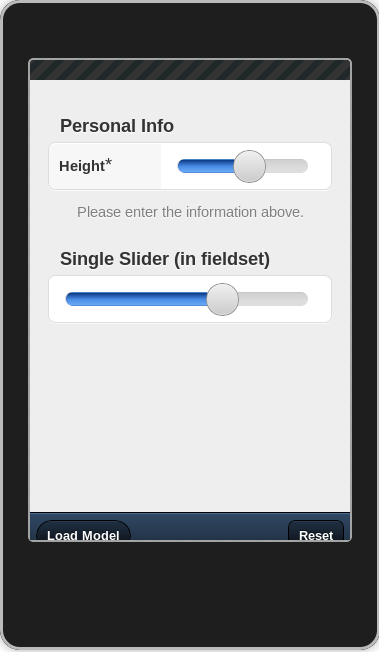
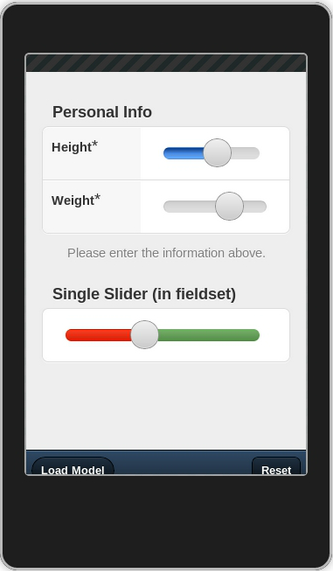
overhauled slider fill which now works like  a slide plugin, modified css, included working demo

diff --git a/index.js b/index.js
@@ -1,88 +1,67 @@
-/**
- * Form slider over ride to implement background fill feature.
- */
-Ext.override(Ext.form.Slider,{
-    additionalWidth : 8,
-    initComponent: function() {
-	this.tabIndex = -1;
-	if (this.increment == 0) {
-	    this.increment = 1;
-	}
-	this.increment = Math.abs(this.increment);
-	//TODO: This will be removed once multi-thumb support is in place - at that point a 'values' config will be accepted
-	//to create the multiple thumbs
-	this.values = [this.value];
+
+Ext.plugins.SliderFill = Ext.extend(Ext.util.Observable, {
+    init: function(slider) {
+	var me = this;
+	this.slider = slider;
+	Ext.DomHelper.append('cssdiv',{tag: 'style', id: 'dynamic-'+this.slider.id});
 	
-	Ext.form.Slider.superclass.initComponent.apply(this, arguments);
-	if (this.thumbs == undefined) {
-	    var thumbs = [],
-		values = this.values,
-		length = values.length,
-		i,
-		Thumb = this.getThumbClass();
-	    for (i = 0; i < length; i++) {
-		thumbs[thumbs.length] = new Thumb({
-		    value: values[i],
-		    slider: this,
-		    listeners: {
-			scope  : this,
-			drag   : this.onDrag,
-			dragend: this.onThumbDragEnd
-		    }
-		});
-	    }
-	    this.thumbs = thumbs;
-	}
-	Ext.DomHelper.append('cssdiv',{tag: 'style', id: 'dynamic-'+this.id});
-    },
-    /**
-    * @private
-    * Fires drag events so the user can interact.
-    */
-    onDrag: function(draggable){
-       
-       var value = this.getThumbValue(draggable);
-       this.fillSlider(value);
-       this.fireEvent('drag', this, draggable.thumb, this.constrain(value));
+	this.mon(slider, 'afterrender',function(slider){
+	    this.onSliderRender(slider);
+	}, this);
+	
+	this.mon(slider, 'change',function(slider,thumb,newvalue,oldvalue){
+	    this.fillSlider(newvalue);
+	}, this);
+	
+	this.mon(slider, 'drag',function(slider,thumb,newvalue){
+	    this.fillSlider(newvalue);
+	}, this);
+	
+	this.mon(slider,'orientationchange',function(slider){
+	    Ext.defer(function(){
+			me.fillSlider(slider.getValue())
+	    },100);
+	},this);
+	
+	
+	
     },
     fillSlider:function(value){
-	if (this.disabled) {
+	if (this.slider.disabled) {
 	    return false;
 	}
-	var newpixel = parseFloat(this.getPixelValue(this.constrain(value), this.getThumb())) + this.additionalWidth;
-	Ext.get('dynamic-'+this.id).dom.innerText = '#'+this.id+' .x-input-slider::after{ width: '+Math.round(newpixel)+'px;}';
+	var newpixel = parseFloat(this.getSlidePixelValue(this.slider.constrain(value), this.slider.getThumb()));
+	Ext.get('dynamic-'+this.slider.id).dom.innerText = '#'+this.slider.id+' .x-input-slider::after{ width: '+Math.round(newpixel)+'px;}';
+	this.updateSliderSize(this.slider);
+	
     },
-    setValue: function(value, animationDuration, moveThumb) {
-	if (typeof moveThumb == 'undefined') {
-	    moveThumb = true;
-	}
-
-	moveThumb = !!moveThumb;
-
-	//TODO: this should accept a second argument referencing which thumb to move
-	var thumb    = this.getThumb(),
-	    oldValue = thumb.getValue(),
-	    newValue = this.constrain(value);
-	if (this.fireEvent('beforechange', this, thumb, newValue, oldValue) !== false) {
-	    if (moveThumb) {
-		this.moveThumb(thumb, this.getPixelValue(newValue, thumb), animationDuration);
-	    }
-	    thumb.setValue(newValue);
-	    this.doComponentLayout();
-	    this.fireEvent('change', this, thumb, newValue, oldValue);
-	    this.fillSlider(value);
-	}
-	return this;
-    },
-    getPixelValue: function(value, thumb) {
-	var trackWidth = thumb.dragObj.offsetBoundary.right + this.additionalWidth,
-	    range = this.maxValue - this.minValue,
+    getSlidePixelValue: function(value, thumb) {
+	var slider = this.slider;
+	var trackWidth = thumb.dragObj.offsetBoundary.right ,
+	    range = slider.maxValue - slider.minValue,
 	    ratio;
-	this.trackWidth = (trackWidth > 0) ? trackWidth : this.trackWidth;
-	ratio = this.trackWidth / range;
-	return (ratio * (value - this.minValue));
+	   
+	slider.trackWidth = (trackWidth > 0) ? trackWidth : slider.trackWidth;
+	ratio = slider.trackWidth / range;
+	return (ratio * (value - slider.minValue));
+    },
+    onSliderRender : function(slider){
+	this.slider = slider;
+	console.log(slider);
+	this.slider_fill_id = Ext.id(),
+	    slidermaxwidth =  this.getSlidePixelValue(this.slider.maxValue, this.slider.getThumb());
+	this.slider.addCls('x-slider-fill-comp');
+	Ext.DomHelper.append(this.slider.fieldEl, {tag: 'div', id: this.slider_fill_id, cls: 'x-slider-fill' , style : 'width:'+slidermaxwidth+'px;'});
+    },
+    updateSliderSize : function(slider){
+	var slidermaxwidth =  this.getSlidePixelValue(slider.maxValue, slider.getThumb());
+	if(Ext.get(this.slider_fill_id)){
+	    Ext.get(this.slider_fill_id).setStyle({width : slidermaxwidth+'px'});
+	}
+	
     }
 });
+Ext.preg('sliderfill', Ext.plugins.SliderFill);
 
 Ext.setup({
     icon: 'icon.png',
@@ -93,38 +72,12 @@ Ext.setup({
 
         var form;
         
-        Ext.regModel('User', {
+       Ext.regModel('User', {
             fields: [
-                {name: 'name',     type: 'string'},
-                {name: 'password', type: 'password'},
-                {name: 'email',    type: 'string'},
-                {name: 'url',      type: 'string'},
-                {name: 'rank',     type: 'string'},
-                {name: 'enable',   type: 'boolean'},
-                {name: 'cool',     type: 'boolean'},
-                {name: 'color',    type: 'string'},
-                {name: 'team',     type: 'string'},
-                {name: 'secret',   type: 'boolean'}
+                {name: 'height',     type: 'int'},
+                {name: 'weight', type: 'int'},
+                {name: 'single_slider',    type: 'int'}
             ]
-        });
-        
-         Ext.regModel('Ranks', {
-            fields: [
-                {name: 'rank',     type: 'string'},
-                {name: 'title',    type: 'stringExt.DataView.override({'}
-            ]
-         });
-        
-        var ranksStore = new Ext.data.JsonStore({
-           data : [
-                { rank : 'master',  title : 'Master'},
-                { rank : 'padawan', title : 'Student'},
-                { rank : 'teacher', title : 'Instructor'},
-                { rank : 'aid',     title : 'Assistant'}
-           ],
-           model : 'Ranks',
-           autoLoad : true,
-           autoDestroy : true
         });
         
         var formBase = {
@@ -142,15 +95,29 @@ Ext.setup({
                     },
                     items: [{
                         xtype: 'sliderfield',
+			plugins : [{
+			    ptype: 'sliderfill'
+			}],
                         name : 'height',
                         label: 'Height'
+                    },{
+                        xtype: 'sliderfield',
+			name : 'weight',
+                        label: 'Weight'
                     }]
                 },{
                     xtype: 'fieldset',
                     title: 'Single Slider (in fieldset)',
+		    
+		    
                     items: [{
                         xtype: 'sliderfield',
-                        name: 'single_slider',
+			name: 'single_slider',
+			cls : 'hotred',
+			id : 'hotred',
+			plugins : [{
+			    ptype: 'sliderfill'
+			}],
                         value : 100
                     }]
                 }
@@ -174,18 +141,9 @@ Ext.setup({
                             ui: 'round',
                             handler: function() {
                                 formBase.user = Ext.ModelMgr.create({
-                                    'name'    : 'Akura',
-                                    'password': 'secret',
-                                    'email'   : 'saru@sencha.com',
-                                    'url'     : 'http://sencha.com',
-                                    'single_slider': 20,
-                                    'enable'  : 1,
-                                    'cool'    : true,
-                                    'team'    : 'redteam',
-                                    'color'   : 'blue',
-                                    'rank'    : 'padawan',
-                                    'secret'  : true,
-                                    'bio'     : 'Learned the hard way !'
+                                    'height'    : 50,
+                                    'weight': 20,
+                                    'single_slider'   : 80
                                 }, 'User');
         
                                 form.loadModel(formBase.user);

diff --git a/index.html b/index.html
@@ -10,37 +10,46 @@
     <div id="cssdiv">
         
     </div>    
-<style type="text/css">	
+<style type="text/css">
 
-
-.x-input-slider.x-slider {
-    background-image:-webkit-gradient(linear, 50% 0%, 50% 100%, color-stop(0%, #C4C4C4), color-stop(10%, #D0D0D0), color-stop(65%, #DDD), color-stop(100%, #DEDEDE)) !important;
-    height:0.8em !important;
-    margin:0.925em !important;
+/**
+ * Default background slider config
+ */
+.x-slider-fill{
+    margin:0.925em;
+    position:absolute;
+    height:0.8em;
+    -webkit-border-radius:0.4em;
     border-radius:0.4em;
-    margin-right: 1.3em !important;
-}
-.x-input-slider::after {
-    margin: 0 0.1em !important;
-    top :0em !important;
-    background-image:-webkit-gradient(linear, left top ,left bottom, from(#0A3A86), color-stop(.5, #4C8DE7), color-stop(.95, #6BABF5), to(#0A3A86)) !important;
-}
-.x-thumb::before {
-    top :-0.5em !important;
-    left: 0em !important;
-    right:-0.5em !important;
+    margin-top:0.75em !important;
+    background-color: #DDD;
+    background-image: -webkit-gradient(linear, 50% 0%, 50% 100%, color-stop(0%, #C4C4C4), color-stop(10%, #D0D0D0), color-stop(65%, #DDD), color-stop(100%, #DEDEDE));
+    background-image: linear-gradient(#C4C4C4,#D0D0D0 10%,#DDD 65%,#DEDEDE);
 }
 
+/**
+ * Default Slider Fill color
+ */
+.x-slider-fill-comp .x-input-slider::after {
+    background-image:-webkit-gradient(linear, left top ,left bottom, from(#0A3A86), color-stop(.5, #4C8DE7), color-stop(.95, #6BABF5), to(#0A3A86));
+}
 
-/*
-.x-input-slider.x-slider {
-    background-image:-webkit-gradient(linear, 50% 0%, 50% 100%, color-stop(0%, #C4C4C4), color-stop(10%, #D0D0D0), color-stop(65%, #DDD), color-stop(100%, #DEDEDE)) !important;
-    border-radius:0.4em;
+/**
+ * To change background fill color when thumb is moved or value is set
+ */
+.hotred.x-slider-fill-comp .x-input-slider::after {
+    background-image: -webkit-gradient(linear, 50% 0%, 50% 100%, color-stop(0%, #FDA397), color-stop(2%, #FB3D23), color-stop(100%, #D41C03));
+    background-image: linear-gradient(#FDA397,#FB3D23 2%,#D41C03);
 }
-.x-input-slider::after {
-    background-image:-webkit-gradient(linear, left top ,left bottom, from(#0A3A86), color-stop(.5, #4C8DE7), color-stop(.95, #6BABF5), to(#0A3A86)) !important;
+
+/**
+ * To change default background color of slider
+ */
+.hotred .x-slider-fill{
+    background-color: #62A155;
+    background-image: -webkit-gradient(linear, 50% 0%, 50% 100%, color-stop(0%, #BCD9B6), color-stop(2%, #76B06A), color-stop(100%, #548A49));
+    background-image: linear-gradient(#BCD9B6,#76B06A 2%,#548A49);
 }
-*/
 
 </style>
 </head>
